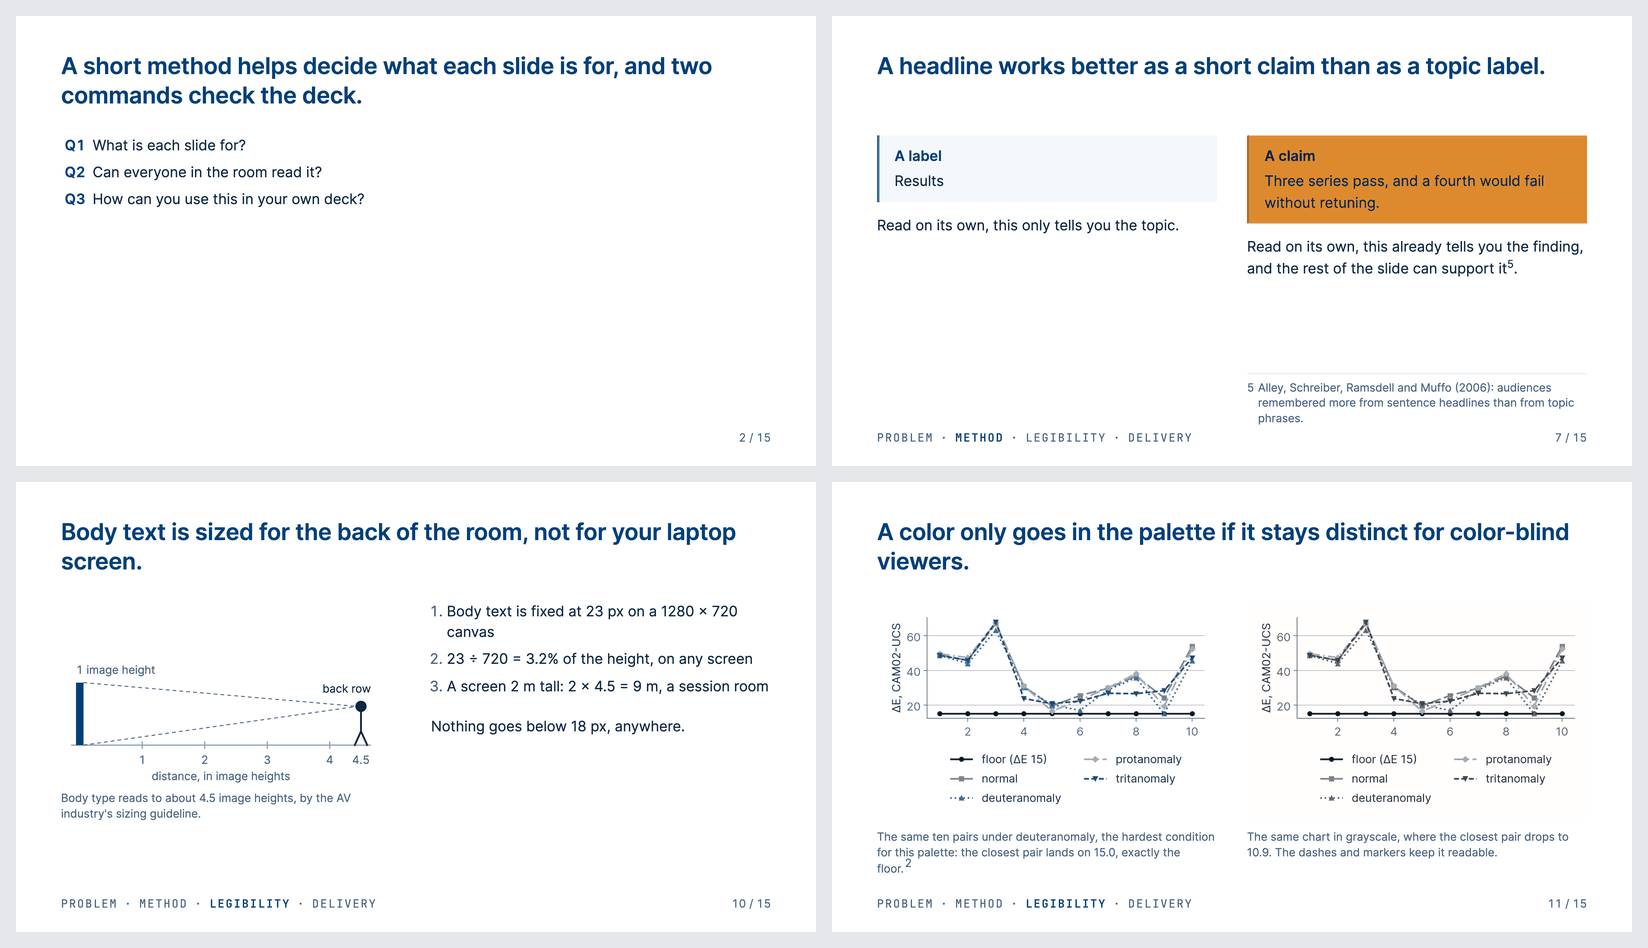
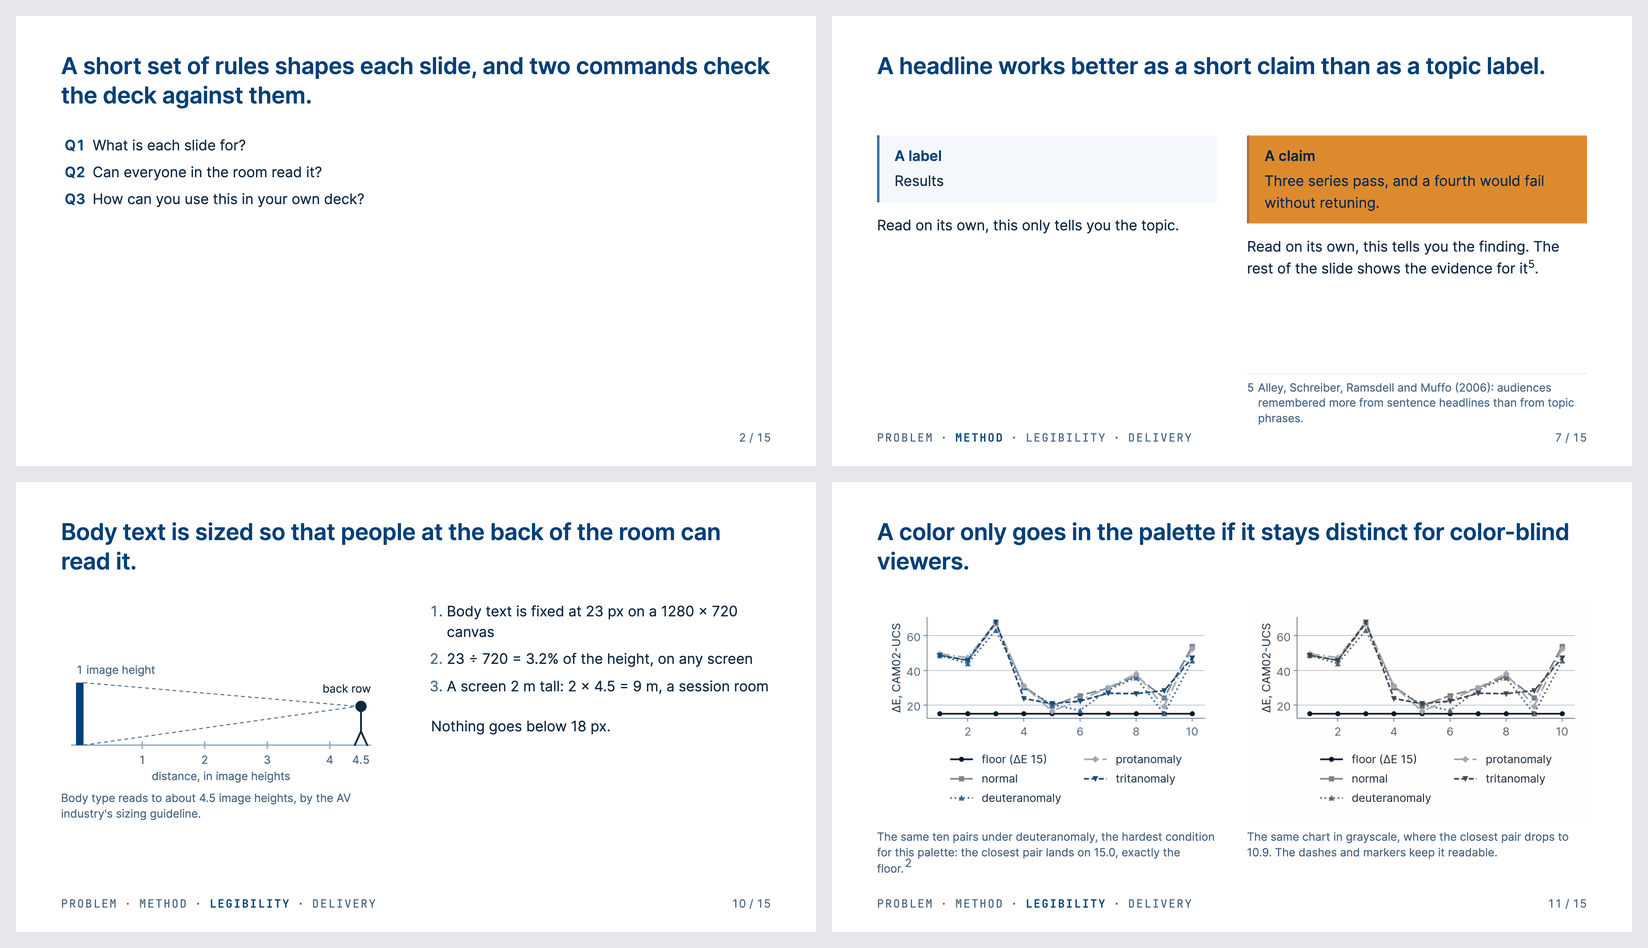
docs(readme): cut the README to what it is, a quickstart, and where to read more
Refs #37

diff --git a/README.md b/README.md
@@ -1,27 +1,33 @@
 # legible-slides
 
-**Slides that stay readable — from the back row, and for every pair of eyes.**
+A Slidev template for academic talks, with a short set of rules for what goes on each slide and
+two commands that check a deck against them.
 
 ![Four slides from the flagship deck: a numbered list of the talk's questions, a topic label set
 against a claim, the back-row reading distance drawn as a diagram, and a chart of palette distances
 under colour-vision deficiency](docs/images/flagship.png)
 
+- **The rules** are in [`docs/method.md`](docs/method.md): one message per slide, a headline that
+  states the claim, text sized for the back row, and colors that stay distinct for color-blind
+  viewers.
+- **`legible lint`** checks a deck's mechanical rules, such as bullet counts, type sizes and wording.
+- **`cvd-validate`** checks that a palette's colors stay apart under color-vision deficiency.
+- **A skill for coding agents** drafts a talk from a paper, builds the deck and reviews it.
+
 ## Quickstart
 
-You need [Node](https://nodejs.org) 22.12 or later with [pnpm](https://pnpm.io) 10, which is what
-CI runs, and [uv](https://docs.astral.sh/uv/) for the checks. No coding agent is required.
+You need [Node](https://nodejs.org) 22.12+, [pnpm](https://pnpm.io) 10 and
+[uv](https://docs.astral.sh/uv/).
 
-**See the flagship**, the deck that teaches the method by following it:
+See the flagship deck, which explains the rules by following them:
 
 ```bash
 git clone https://github.com/YongboYu/legible-slides
 cd legible-slides/deck
-pnpm install
-pnpm dev
+pnpm install && pnpm dev
 ```
 
-**Start your own deck** from the template, with a copy of the theme and the checks pinned to the
-commit you cloned. Run this from the repo root:
+Start your own deck. Run this from the repo root:
 
 ```bash
 mkdir ../my-talk
@@ -29,186 +35,41 @@ cp -R skill/template/. ../my-talk/
 git archive HEAD theme | tar -x -C ../my-talk
 sed -i.bak "s|^REV=main$|REV=$(git rev-parse HEAD)|" ../my-talk/bin/legible && rm ../my-talk/bin/legible.bak
 cd ../my-talk
-pnpm install
-pnpm dev
+pnpm install && pnpm dev
 ```
 
-**Check it**, while you write and before you present:
+Check it, and export a PDF:
 
 ```bash
-bin/legible lint slides.md --theme themes/palette.json   # the method's mechanical rules
-bin/cvd-validate themes/palette.json                     # the palette, under colour-vision deficiency
-```
-
-**Export it** to a PDF:
-
-```bash
+bin/legible lint slides.md --theme themes/palette.json
+bin/cvd-validate themes/palette.json
 pnpm exec playwright install chromium   # once per machine
-pnpm export                             # → dist/slides.pdf
+pnpm export                             # writes dist/slides.pdf
 ```
 
-The new deck's own README covers the palette, the figures and the CI workflow it ships with. With a
-coding agent, the [skill](#starting-and-reviewing-with-a-coding-agent) does the same stamping and
-then reviews the deck for you.
+To have a coding agent do this for you, see [`skill/README.md`](skill/README.md).
 
----
+## Read more
 
-## Why
-
-Most presentation templates give you *files* — a colour scheme, some layouts, a font pairing. They
-leave the hard part to you: deciding what any given slide is actually **for**.
-
-They also quietly fail two audiences. The person in the back row, who cannot read the 14px caption
-a template shrank to fit. And the roughly 1 in 12 men and 1 in 200 women with a colour vision
-deficiency, for whom the average "nice palette" collapses into indistinguishable mud the moment it
-becomes a five-line chart.
-
-`legible-slides` is the opposite bet: a small amount of **method**, verified against both of those
-failure modes, delivered as a Slidev theme.
-
-## What
-
-Three things, in order of how much they matter:
-
-1. **A method.** A short set of rules about what a slide is *for*, built on Assertion-Evidence
-   (Alley & Neeley) and the cognitive-load research underneath it. They live in
-   [`docs/method.md`](docs/method.md) — the canon, and the only place any of them is stated. The
-   ones a script can settle are settled by one (`legible lint`), reproducibly and in CI.
-2. **A verified accessibility floor.** A type scale stated for the rooms it suits, with a floor no
-   text goes under, and a colour-vision-deficiency validator you can run against *your* palette —
-   not just a promise that ours passes.
-3. **A Slidev theme** that carries the method, and a skill so a coding agent can build to this
-   standard on your behalf.
-
-### One palette, in one file
-
-The theme is `leuven-blue`, one palette file in [`themes/`](themes) that passes the validator. It is
-the author's own template for academic talks, and it ships no institution's marks: the cover's venue
-and affiliation slots show placeholder logos until a deck points them at its own files.
-
-> **Note:** the palette is inspired by KU Leuven's house colours. It is not affiliated with or
-> endorsed by the university.
-
-Editing that one file recolours the whole deck. The same Python that validates a palette also emits
-its CSS custom properties (`legible gen-css`), so the token schema is understood in one language
-and no second copy of it can drift. The generated stylesheet is committed and CI checks it against
-its palette — which is why building a deck needs no Python at all.
-
-Charts are regenerated from data rather than redrawn, so a recolour reaches them too. There are two
-chart shapes, deliberately — the multi-series comparison, where every line gets a dash and a marker
-of its own because colour is never allowed to be the only channel, and the headline chart, where a
-de-emphasised comparison stands against one highlight. Either can render itself as a
-colour-vision deficiency sees it, using the validator's own simulation. See
-[`python/README.md`](python/README.md#the-figure-helper).
-
-## Running the floor
-
-The validator is a command with an exit code, so the accessibility claim is evidence rather than a
-promise — including for a palette this project has never seen:
-
-```bash
-uv tool install "git+https://github.com/YongboYu/legible-slides#subdirectory=python"
-cvd-validate my-theme.json
-```
-
-It names each failing pair by role rather than by hex, prints the achieved minimum even when you
-pass — so you can see whether you have headroom — and exits non-zero if any pair falls below the
-floor, or an attention or text pairing falls short of its contrast (`accent-is-attention`,
-`decorative-neutral-never-text`). See
-[`python/README.md`](python/README.md).
-
-Inside this repo the same command gates CI over the theme in [`themes/`](themes) on push and pull
-request: a palette that fails cannot merge. The hook in `.pre-commit-config.yaml` runs it locally and
-is opt-in, because enforcement belongs somewhere nobody can skip. Your own palettes are yours — the
-command is offered, not imposed.
-
-## Running the method
-
-Bullet ceilings, word ceilings, em-dashes in a headline, inflated register and monotonous sentence
-openers are all decidable, so a script decides them rather than a reader:
-
-```bash
-legible lint deck/slides.md --theme themes/leuven-blue.json
-```
-
-Findings arrive grouped by slide and named by the rule they enforce, which is what makes one
-possible to look up and disagree with. Every threshold comes out of `docs/method.md` at import, so
-changing a rule there changes what the command enforces and nothing here holds a second copy of the
-number. The palette check is the validator above, shelled out to: there is exactly one
-implementation of the simulation in this project, and the linter is deliberately not it. See
-[`python/README.md`](python/README.md#legible-lint).
-
-What is left is judgment — whether a slide carries one message, whether its headline is a claim —
-and judgment stays with a reader, or with the coding-agent skill that reviews on your behalf.
-
-## Starting and reviewing with a coding agent
-
-[`skill/`](skill) is that skill, and it has four modes.
-
-**draft** reads a paper and its codebase and writes a [talk plan](docs/talk-plan.md): the
-questions the paper says it answers, a setup that makes the case for them, then one entry per
-slide with its headline claim, its evidence and where that comes from. You edit the plan, which is the cheap place to change an argument. **build**
-turns the plan into a deck on the template, draws its figures from data, and hands it over with a
-review.
-
-**review** runs the linter for everything a script settles, loads the rules that need reading
-straight from the canon (`legible rules`), and reports both halves as one review, grouped per slide,
-with a proposed fix on every finding. The two halves keep different authority: the mechanical one
-has an exit code and blocks, the judgments are advisory and never do. And it flags rather than
-edits — it can hold a deck to a structure, but deciding your message stays yours.
-
-**scaffold** stamps a new deck already wired to the theme, to a palette that clears the floor, and
-to both checks, with one skeleton slide per layout to fill in. It is lean on purpose — a correct
-starting point, not a second flagship — and it hands the deck over having run the review over it,
-so a deck is review-ready from slide one rather than retrofitted at the end. It stamps a copy of
-the `leuven-blue` palette, which the deck is free to edit.
-
-No mode states a rule of its own, which is what stops a review drifting from the method it
-claims to enforce. See [`skill/README.md`](skill/README.md).
-
-## Presenting with Slidev
-
-[`theme/`](theme) is `slidev-theme-legible`, the method as machinery: six layouts, among them an
-opening answer and a closing conclusion, the persistent chrome that carries orientation so no slide
-has to be spent on navigation, and styles that read nothing but the generated palette. Both typefaces are bundled, so a deck renders in the family it was
-designed in on a lecture-room laptop with no network — and in the same one the figures were drawn in.
-
-What it refuses is as much the point. There is no section-divider, no opener, no closer and no
-single-word-emphasis layout, because the method forbids the slides they build.
-
-A deck stamped by the skill carries its own copy of it, taken from one commit of this repo, with its
-checks pinned to that same commit, so it builds from a clean clone. See
-[`theme/README.md`](theme/README.md).
-
-[`deck/`](deck) is the flagship: the deck that teaches the method by being it, and the artifact to
-read if you would rather see the rules applied than read them. It runs the fourteen beats the canon
-outlines, plus a references slide, and is built and linted in CI. See
-[`deck/README.md`](deck/README.md).
-
-A green lint is the gate, not a verdict on the deck: what the scripts cover, rule by rule, and what
-they leave to a reader of the rendered pages, is
-[`docs/agent-skill-contract.md`](docs/agent-skill-contract.md) §4c.
-
-## Provenance
-
-This is not a greenfield idea. It is an extraction from a deck that shipped: the CAiSE 2026
-presentation of [`pmf-tsfm`](https://github.com/YongboYu/pmf-tsfm). The layouts, the token
-architecture, the CVD verification and the figure pipeline were all built and argued out there,
-across a long trail of issues and PRs.
-
-See [`docs/design-provenance.md`](docs/design-provenance.md) for what was decided, and why.
+| | |
+|---|---|
+| [`docs/method.md`](docs/method.md) | every rule, with its threshold and its source |
+| [`deck/`](deck) | the flagship deck |
+| [`theme/README.md`](theme/README.md) | the layouts and components |
+| [`python/README.md`](python/README.md) | the `legible` and `cvd-validate` commands, and the figure helper |
+| [`skill/README.md`](skill/README.md) | the coding-agent skill |
+| [`docs/design-provenance.md`](docs/design-provenance.md) | where the rules came from: the [`pmf-tsfm`](https://github.com/YongboYu/pmf-tsfm) talk at CAiSE 2026 |
 
 ## Credits and license
 
-The slide structure is Assertion-Evidence, developed by Michael Alley and colleagues: Alley &
-Neeley, "Rethinking the design of presentation slides: A case for sentence headlines and visual
-evidence," *Technical Communication* 52(4), 2005; and Alley, *The Craft of Scientific
-Presentations*, 2nd ed., Springer, 2013. This project applies their method and is not affiliated
-with its authors. The rest of the evidence base is cited in
+The slide structure is Assertion-Evidence, by Michael Alley and colleagues (Alley & Neeley,
+*Technical Communication* 52(4), 2005; Alley, *The Craft of Scientific Presentations*, 2013). This
+project is not affiliated with its authors. The other sources are in
 [`docs/research/presentation-methods.md`](docs/research/presentation-methods.md).
 
-The bundled typefaces, Inter and JetBrains Mono, are under the SIL Open Font License 1.1; their
-licence files ship beside them in [`theme/assets/fonts/`](theme/assets/fonts).
+The palette is inspired by KU Leuven's colors, and the project is not affiliated with or endorsed by
+the university. Earlier commits contain KU Leuven logo files, which belong to the university and are
+not covered by this license.
 
-Everything else is MIT — see [LICENSE](LICENSE). Earlier commits contain KU Leuven logo files.
-They are the university's property and are not covered by this license.
+The bundled fonts, Inter and JetBrains Mono, are under the SIL Open Font License 1.1. Everything
+else is [MIT](LICENSE).
